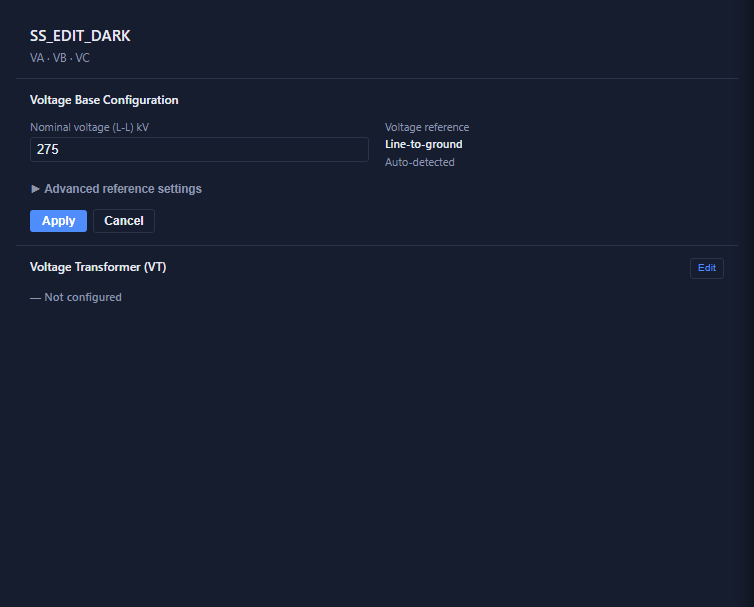
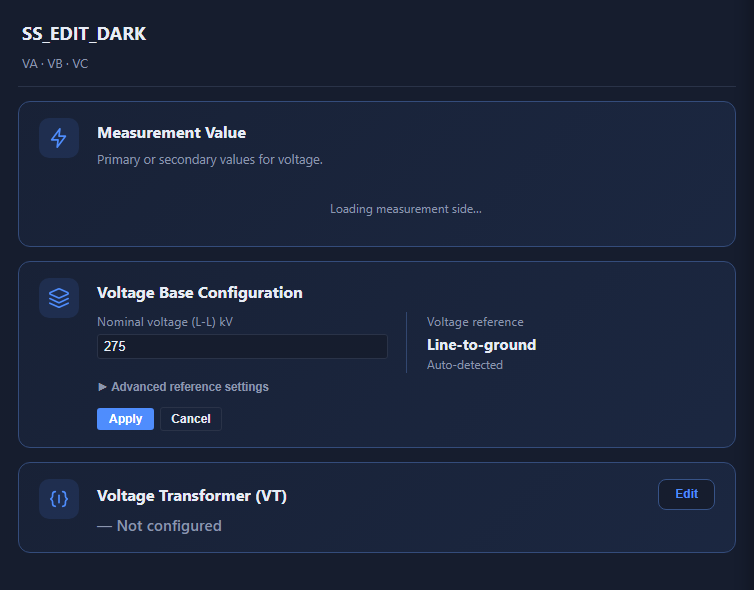
docs(d5a-ui-002): final verification, baseline comparison and visual evidence

diff --git a/docs/project-memory/D5A_UI_002_GROUP_DETAILS_GROUP_LEVEL_SIDE_2026-11-22.md b/docs/project-memory/D5A_UI_002_GROUP_DETAILS_GROUP_LEVEL_SIDE_2026-11-22.md
@@ -76,11 +76,19 @@ Tests: `backend/tests/test_d5a_ui_002_group_measurement_side.py` (replaces the b
 
 ## 5. Verification
 
-See the owner report and the commit messages for totals. Mutation checks confirmed the new tests fail when the group override is ignored, shared across
-groups, or when an inferred side is allowed to clear an override, and when the page highlights an unresolved group.
+* Backend: full suite 13,490 passed / 405 skipped / 0 failed (13,895 collected). Every frontend static / Node test plus the group backend suite re-run on the final
+  frontend: 2,282 passed, 0 failed. Mutation checks: ignoring the override, sharing it across groups, letting an inferred side clear an override, and
+  highlighting an unresolved group each fail the suite.
+* Browser, Recording Details set (rd1-*, toolbar, d5a_*, lifecycle, analyser detection, ui_rec_001, plus time-reference, notation, phase-display, text-spacing,
+  post-upload readiness, voltage-only PU display, auto-PU import): **363 passed, 14 failed**. All 14 are in spec files that fail identically on the untouched
+  baseline frontend (`a1e8d68`; 22 failed / 63 passed over the same files on baseline vs 22 / 81 with this work, the post-upload failures moving between
+  tests run to run): `electrical-notation` (1), `phase-display-convention` (2), `post_upload_readiness` (4 of its 8 baseline failures), `time-reference-interpretation`
+  (3), `voltage-only-pu-display` (4). None touches Recording Info or Group Details, none was edited, no test was weakened.
+* Visual evidence (real browser, KPDN1/KPDN2/SLKS/MCRS recording with KPDN1 configured through the existing APIs): [evidence/d5a-ui-002/](evidence/d5a-ui-002/) —
+  `recording-info-wide`, `kpdn1-voltage-wide`, `kpdn1-current-wide`, `kpdn1-voltage-narrow` (1000 px viewport, narrow third column), `kpdn1-current-narrow`,
+  `kpdn1-voltage-phone` (single-panel layout); each as `-page.png` (whole app) and `-panel.png` (third column).
 
 ## 6. Limitations before D5A-2B2C
 
 * Calculated-channel side/lineage questions are unchanged (see D5A_2B2B §7).
 * Recording Details no longer offers a Confirm-bay review; confirming an Engineering Context is still available through its own endpoint/workflow.
-* The Per-unit Configuration card on Recording Info appears after the next re-render (pre-existing: groups load after the first draw).

diff --git a/docs/project-memory/UI_REC_001_RECORDING_INFO_REDESIGN_2026-11-22.md b/docs/project-memory/UI_REC_001_RECORDING_INFO_REDESIGN_2026-11-22.md
@@ -26,8 +26,10 @@ All of it is in `frontend/index.html`, localized as: one CSS block (`UI-REC-001-
   vs 22 failed / 81 passed with this change over the same files); they are environmental / pre-existing and none touches Recording Info.
   One test was adjusted: `rd1-ux3` D02b now expects the metadata card's two tables.
 
-## Observation for the owner (not changed)
+## Per-unit card on the first load (fixed in `b19f5de`, owner decision 2026-11-22)
 
-When a recording is first selected the measurement groups load after Recording Info is first drawn, and `wwRdSelectSource` deliberately does not re-render
-the details afterwards, so the Per-unit Configuration card appears only after the next re-render (for example switching tabs). This predates this task; a
-one-line re-render when the groups arrive would fix it. Not applied (change governance: report first).
+The measurement groups load after Recording Info is first drawn and the details were not drawn again, so the Per-unit Configuration card appeared only after a
+later redraw. `wwRdSelectSource` now redraws Recording Info once when the groups arrive — locally (no request, no loop) and only if the same recording is still
+selected, Recording Info is still the view, and no control inside the panel has focus. Group Details and another recording are never overwritten. Tests: the card
+is present on a first load with no tab switch and the draw count settles (fails on the code before the fix); late groups do not pull the engineer out of Group
+Details. The request sequence is identical before and after the change.
